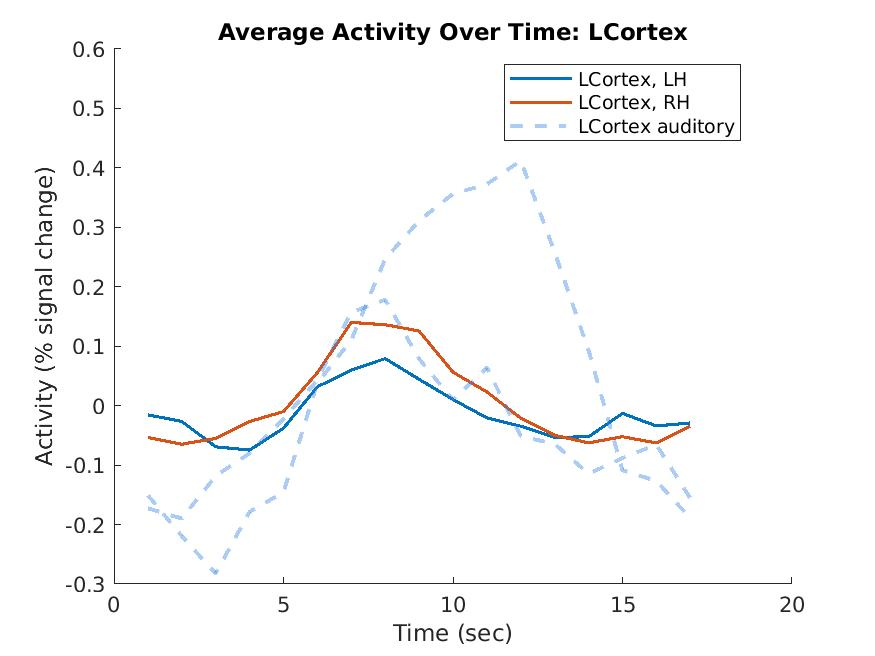
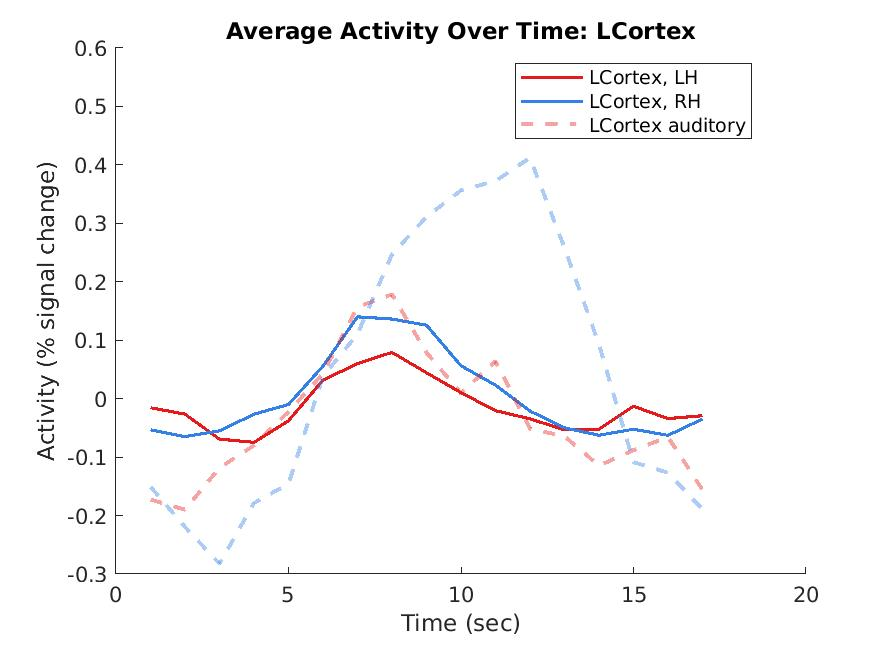
update figres dir (auto)

diff --git a/plotTimeCourseOnePlotMotor.m b/plotTimeCourseOnePlotMotor.m
@@ -28,9 +28,9 @@ function plotTimeCourseOnePlot()
        %% Plotting L cortex
         figure
         hold on
-        plot(LCortex_LH_data, 'LineWidth', 1.5);
-        plot(LCortex_RH_data, 'LineWidth', 1.5);
-        plot(LE_LCortex_data, "--", 'LineWidth', 1.9, 'Color', [0.2 0.5 0.9 0.4]);
+        plot(LCortex_LH_data, 'LineWidth', 1.5, 'Color', [0.9 0.1 0.1]);
+        plot(LCortex_RH_data, 'LineWidth', 1.5, 'Color', [0.2 0.5 0.9]);
+        plot(LE_LCortex_data, "--", 'LineWidth', 1.9, 'Color', [0.9 0.1 0.1 0.4]);
         plot(RE_LCortex_data, "--", 'LineWidth', 1.9, 'Color', [0.2 0.5 0.9 0.4]);
 
         % Adding Title, Labels, and Legend
@@ -55,9 +55,9 @@ function plotTimeCourseOnePlot()
        %% Plotting R cortex
         figure
         hold on
-        plot(RCortex_LH_data,  'LineWidth', 1.5);
-        plot(RCortex_RH_data,  'LineWidth', 1.5);
-        plot(LE_RCortex_data, "--", 'LineWidth', 1.9, 'Color', [0.2 0.5 0.9 0.4]);
+        plot(RCortex_LH_data,  'LineWidth', 1.5, 'Color', [0.9 0.1 0.1]);
+        plot(RCortex_RH_data,  'LineWidth', 1.5, 'Color', [0.2 0.5 0.9]);
+        plot(LE_RCortex_data, "--", 'LineWidth', 1.9, 'Color', [0.9 0.1 0.1, 0.4]);
         plot(RE_RCortex_data, "--", 'LineWidth', 1.9, 'Color', [0.2 0.5 0.9 0.4]);
 
         % Adding Title, Labels, and Legend
